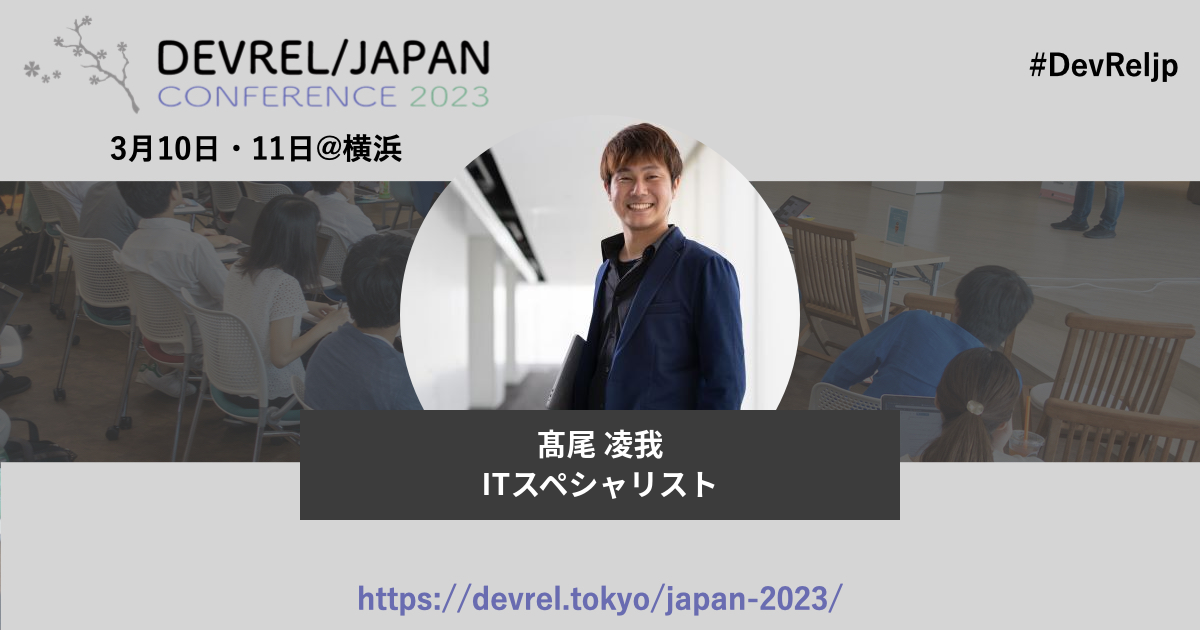
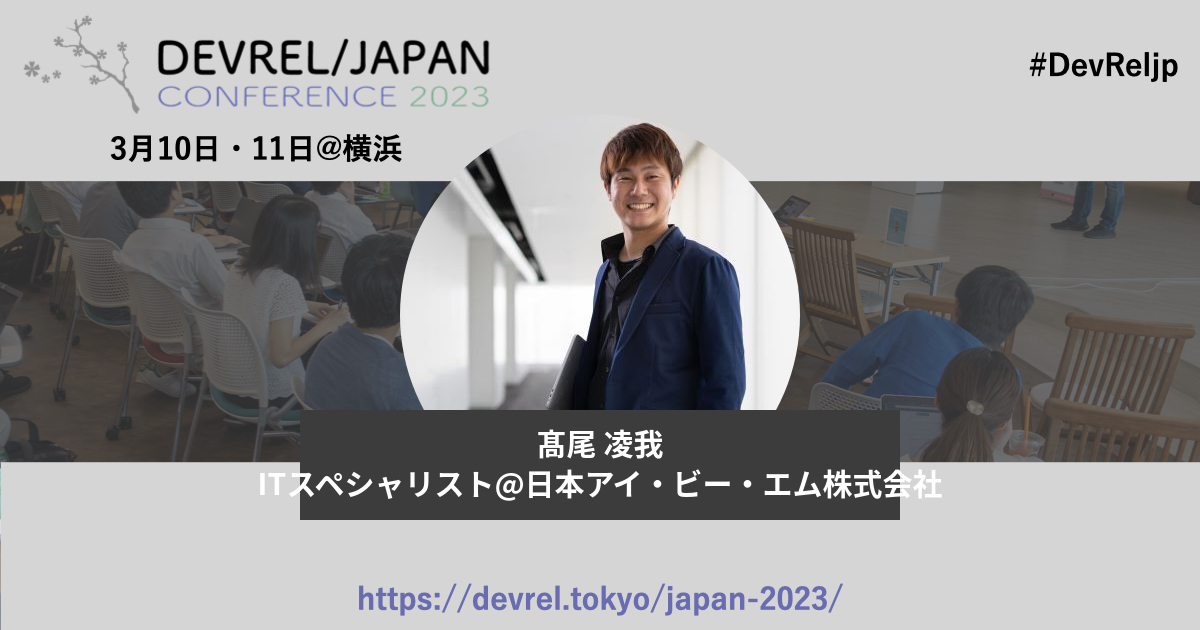
auto update

Changed region(s): [[0.2158, 0.7238, 0.8017, 0.8143]]

diff --git a/organizers/ryoga.md b/organizers/ryoga.md
@@ -1,9 +1,9 @@
 ---
 layout: person
 permalink: /organizers/ryoga/
-title: 髙尾 凌我@
+title: 髙尾 凌我@日本アイ・ビー・エム株式会社
 ogp: /japan-2023/image/ogp/ryoga.jpg
 type: organizer
 id: ryoga
 ---
-日本アイ・ビー・エム株式会社 ITスペシャリスト。クラウドを中心に扱い、ハッカソンを愛してやまない新卒2年目のフルスタックエンジニア。
+クラウドを中心に扱い、ハッカソンを愛してやまない新卒2年目のフルスタックエンジニア
